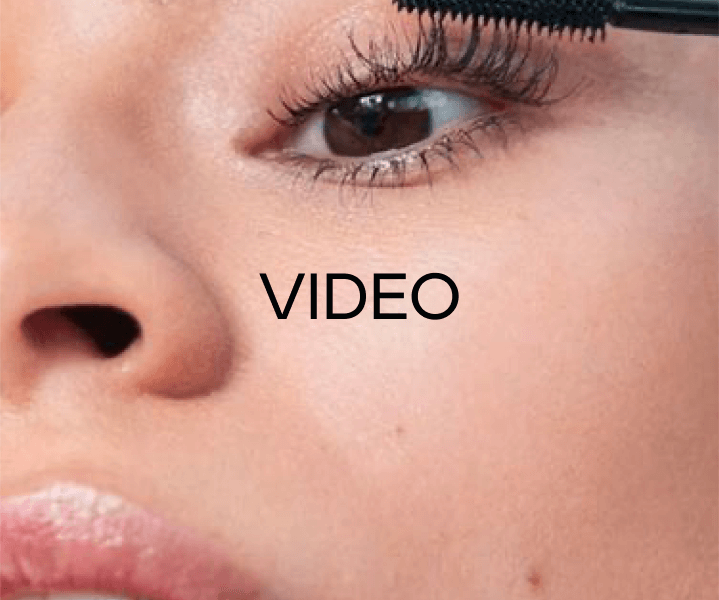
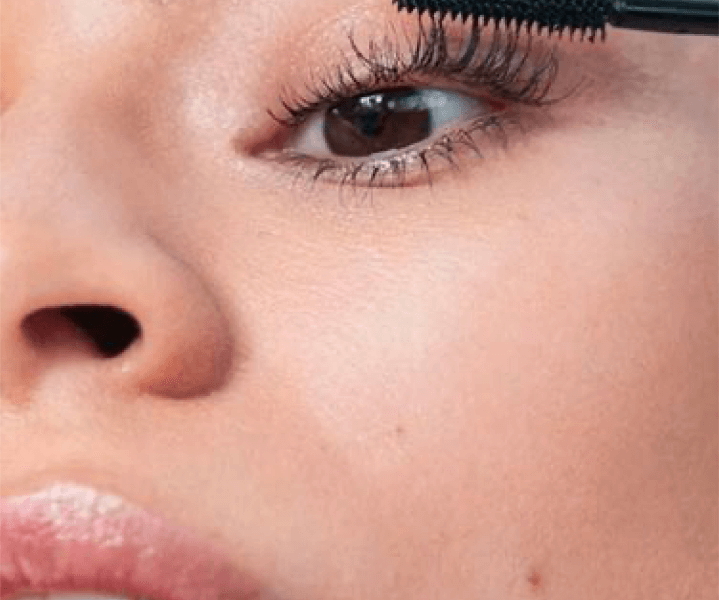
fixes

Changed region(s): [[0.3672, 0.45, 0.6426, 0.54]]

diff --git a/src/styles/pages/product.scss b/src/styles/pages/product.scss
@@ -239,8 +239,16 @@
 }
 
 .description-col1 {
+  position: relative;
   max-height: 600px;
   overflow: hidden;
+
+  &:hover {
+    .description-col1__notice {
+      pointer-events: none;
+      opacity: 0;
+    }
+  }
 
   @media (max-width: $screen-sm) {
     height: 260px;
@@ -253,6 +261,19 @@
   height: auto;
   object-fit: cover;
   object-position: center;
+}
+
+.description-col1__notice {
+  position: absolute;
+  top: 50%;
+  left: 50%;
+  transform: translate(-50%, -50%);
+  font-size: 65px;
+  z-index: 2;
+
+  @media (max-width: $screen-md) {
+    font-size: 30px;
+  }
 }
 
 .description-col2 {
@@ -305,9 +326,17 @@
 }
 
 .description-col3 {
+  position: relative;
   height: 750px;
   padding: 50px 0;
   background-color: $color-gray;
+
+  &:hover {
+    .description-col3__notice {
+      pointer-events: none;
+      opacity: 0;
+    }
+  }
 
   .swiper-container {
     position: relative;
@@ -332,6 +361,13 @@
     left: 58px;
     bottom: 0;
     z-index: 100;
+    cursor: pointer;
+
+    &:hover {
+      .icon-arrow-left {
+        background-image: svg-load("../icons/arrow-left.svg", stroke = $color-purple-light);
+      }
+    }
   }
 
   .swiper-button-next {
@@ -339,6 +375,13 @@
     right: 58px;
     bottom: 0;
     z-index: 100;
+    cursor: pointer;
+
+    &:hover {
+      .icon-arrow-right {
+        background-image: svg-load("../icons/arrow-right.svg", stroke = $color-purple-light);
+      }
+    }
   }
 
   @media (max-width: $screen-sm) {
@@ -370,3 +413,17 @@
     }
   }
 }
+
+.description-col3__notice {
+  position: absolute;
+  top: 50%;
+  left: 50%;
+  transform: translate(-50%, -50%);
+  font-size: 65px;
+  z-index: 2;
+
+  @media (max-width: $screen-md) {
+    font-size: 30px;
+  }
+}
+

diff --git a/src/html/views/product.html b/src/html/views/product.html
@@ -73,6 +73,8 @@ includeScripts: true,
         <source srcset="images/video@2x.png 2x, images/video.png 1x" />
         <img loading="lazy" src="images/video.png" alt="Video" class="description-col1__image" width="719" height="600" />
       </picture>
+
+      <p class="description-col1__notice">VIDEO</p>
     </div>
     <div class="description__col description-col2">
       <p class="description-col2__content"><span class="description-col2__content-title">THE BEST BITS – BROKEN DOWN:</span>
@@ -119,6 +121,8 @@ includeScripts: true,
         <div class="swiper-button-prev"><span class="icon icon-arrow-left"></span></div>
         <div class="swiper-button-next"><span class="icon icon-arrow-right"></span></div>
       </div>
+
+      <p class="description-col3__notice">SLIDESHOW</p>
     </div>
   </section>
 </main>
